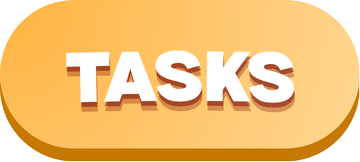
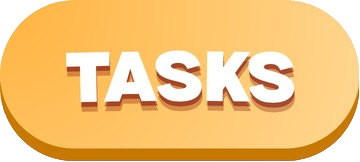
Imported the pywinstyles module which allowed me to remove the background border from my buttons

diff --git a/main.py b/main.py
@@ -1,5 +1,7 @@
 from tkinter import *
 from PIL import Image, ImageTk
+import customtkinter
+import pywinstyles
 
 class MenuPage:
     def __init__(self,parent):
@@ -8,7 +10,7 @@ class MenuPage:
 
         self.background_image = Image.open("Menu.png")
         self.background_image =self.background_image.resize((self.window_width, self.window_height), Image.LANCZOS)
-        self.background_image_tk = ImageTk.PhotoImage(self.background_image)
+        self.background_image_tk =ImageTk.PhotoImage(self.background_image)
 
         self.studi_frame = Frame(parent)
         self.studi_frame.pack(fill=BOTH, expand=TRUE)
@@ -16,30 +18,43 @@ class MenuPage:
         self.image_label = Label(self.studi_frame, image=self.background_image_tk, borderwidth=0)  # Creates a label, which holds the background image
         self.image_label.place(relwidth=1, relheight=1)  # Ensures that the label/image fits the entire screen
 
-        # self.text_label = Label(self.studi_frame, text = "Hi", font=["Tw Cen Mt", "26", "bold"])
-        # self.text_label.place(relx=0.5, rely=0.78, anchor="center")
-
         self.timer_image = Image.open("Timer.png")
         self.timer_image_tk = ImageTk.PhotoImage(self.timer_image)
 
         self.tasks_image = Image.open("Tasks.png")
         self.tasks_image_tk = ImageTk.PhotoImage(self.tasks_image)
 
-        self.timer_button = Button(self.studi_frame, image = self.timer_image_tk, command = clicked, cursor = "hand2")
+        self.timer_button = Button(self.studi_frame, image = self.timer_image_tk, command = clicked, cursor = "hand2", bg="#a60c09", borderwidth=0, activebackground="#a60c09")
         self.timer_button.place(relx = 0.27, rely= 0.44)
+        pywinstyles.set_opacity(self.timer_button, color="#a60c09")
 
-        self.tasks_button = Button(self.studi_frame, image = self.tasks_image_tk, command = clicked, cursor = "hand2")
+        self.tasks_button = Button(self.studi_frame, image = self.tasks_image_tk, command = clicked, cursor = "hand2", bg="#a60c09", borderwidth=0, activebackground="#a60c09")
         self.tasks_button.place(relx = 0.53, rely= 0.44)
+        pywinstyles.set_opacity(self.timer_button, color="#a60c09")
+
 
 def clicked():
     print("Hi")
-
-
+#
+# window = Tk()
+# window_width = window.winfo_screenwidth()
+# window_height = window.winfo_screenheight()
+# window.geometry = (window_width,window_height)
+#
+# canvas = Canvas(window, width = window_width, height = window_height, borderwidth=0)
+# canvas.pack()
+#
+# bgImage = ImageTk.PhotoImage(Image.open("Menu.png"))
+# bg = canvas.create_image(0, 0, image=bgImage, anchor=NW)
+#
+# TimerImage = ImageTk.PhotoImage(Image.open("Timer.png"))
+# TimerButton = canvas.create_image(50, 50, image=TimerImage)
+# # canvas.tag_bind(quitButton, "<Button-1>", quitGame)
 
 #Runs the program
 if __name__ == "__main__": #Ensures the code only runs when the program is executed
-    root = Tk() #Creates the root Tkinter window
+    root = Tk()
     root.title("Studi") #Sets the title of the window to "Studi"
     root.attributes("-fullscreen", True) #Makes the window fullscreen
-    studi_instance = MenuPage(root) #Creates an instance of the MenuPage class
+    studi_instance = MenuPage(root)  # Creates an instance of the MenuPage class
     root.mainloop() #Starts the window loop until the user closes it
